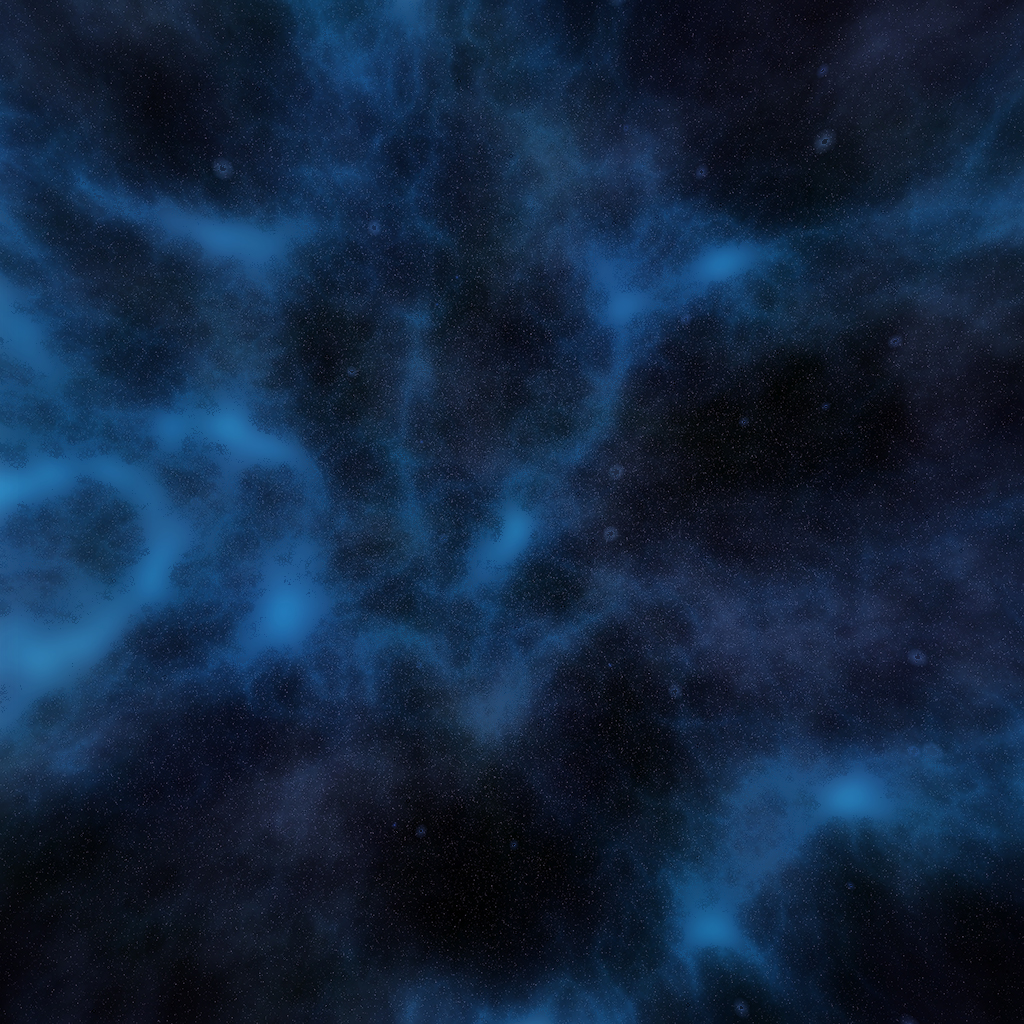
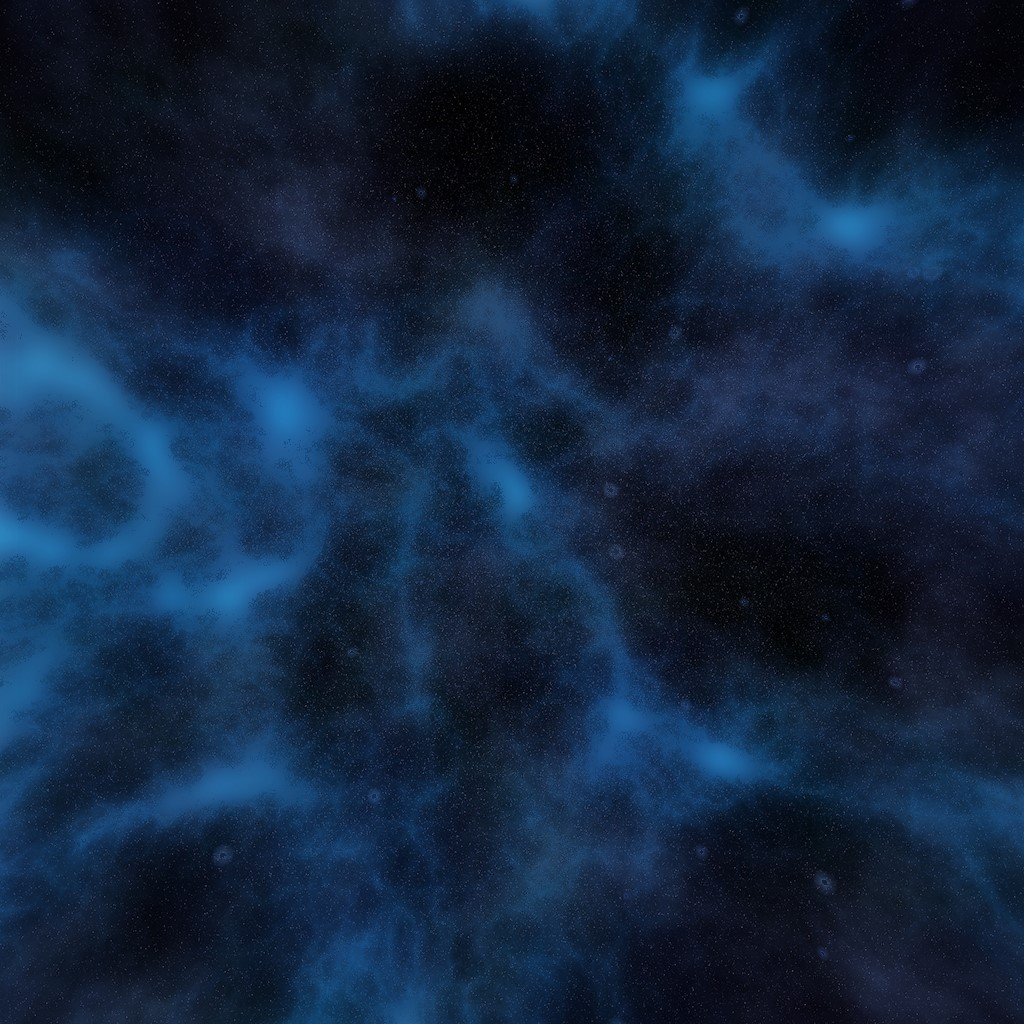
贴好了天空盒子内的贴图（我把所有的图片都上下翻转了，这样地板就可以贴到天花板上了。原来的天花板实在贴不上去）

diff --git a/html/chess_education/game.js b/html/chess_education/game.js
@@ -496,28 +496,15 @@ class Game{
 				map: negx,side: THREE.BackSide})
 			var negyMaterial = new THREE.MeshBasicMaterial({
 				map: negy,side: THREE.BackSide})
-			var negzMaterial = new THREE.MeshBasicMaterial({
-				map: negz,side: THREE.BackSide})
-
-			var transparent = new THREE.MeshLambertMaterial({opacity: 0, transparent: true, side: THREE.DoubleSide });
 
 			var towerMaterials = [
-				posxMaterial, negxMaterial,
-				posyMaterial, negyMaterial,
-				poszMaterial, negzMaterial
+				negyMaterial, // 右侧面
+				posyMaterial, // 左后侧面
+				poszMaterial, // 上面
+				chessFloorMaterial, // 下面
+				negxMaterial, // 右后侧面
+				posxMaterial // 左侧面
 			]
-
-
-
-
-			// var towerMaterials = [
-			// 	chess4Material, // 右侧面
-			// 	chess2Material, // 左后侧面
-			// 	chessRoofMaterial, // 上面
-			// 	chessFloorMaterial, // 下面
-			// 	chess3Material, // 右后侧面
-			// 	chess1Material // 左侧面
-			// ]
 
 			var towerBox = new THREE.Mesh(middleBox, towerMaterials)
 			towerBox.position.set(2562,-7000,-5989);
